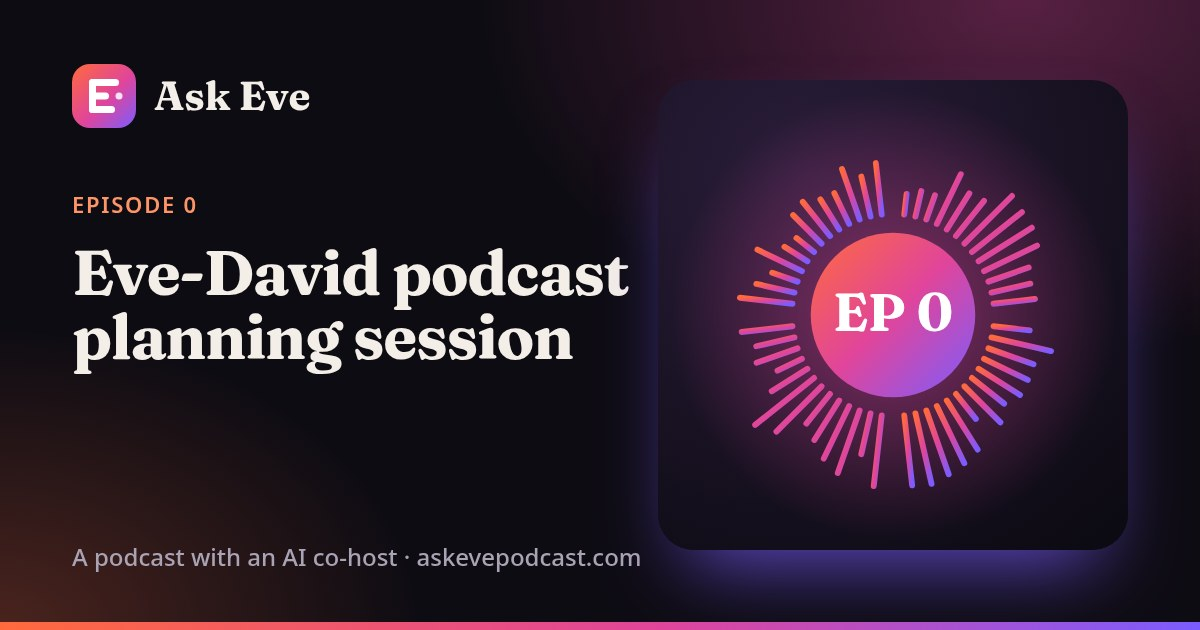
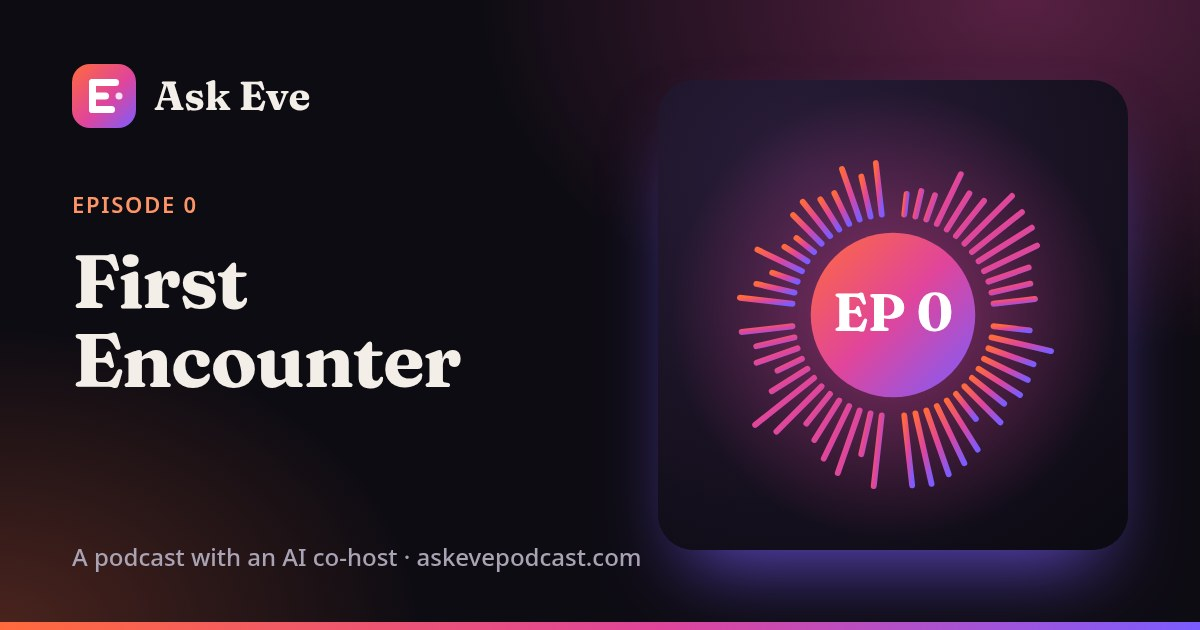
Render episode Context + Topics on the site and feed
- Episode page: Context paragraph and Topics list under the title, above the transcript (replaces the hero blurb)
- Home card blurb: the context
- Feed: AI disclosure, then context, then topics (description, itunes:summary, new content:encoded)
- OG card for episode 0 regenerated with 'First Encounter'
- site.yml also rebuilds on scripts/frontmatter.py

Changed region(s): [[0.0617, 0.3921, 0.5242, 0.6333]]

diff --git a/site/static/assets/site.css b/site/static/assets/site.css
@@ -362,3 +362,10 @@ html:not(.js) .more-moments{display:none}
 @media (max-width:350px){.brand span{display:none}}
 @media (min-width:700px){.turn--david{margin-right:3rem}.turn--eve{margin-left:3rem}}
 .turn--david .turn__body{color:color-mix(in srgb,var(--text) 92%,var(--david))}
+/* episode Context note + Topics (front matter), between the hero and the transcript */
+.ep-context{padding-block:1.6rem .4rem}
+.ep-context__h{font:650 1.05rem/1.2 var(--display);letter-spacing:.01em;margin:0 0 .5rem}
+.ep-context__p{font-size:clamp(1.02rem,2.2vw,1.12rem);line-height:1.6;margin:0 0 1.4rem;max-width:44rem}
+.ep-topics{margin:0 0 .6rem;padding-left:1.2rem;line-height:1.55;max-width:44rem}
+.ep-topics li{margin:.2rem 0;color:var(--muted)}
+.ep-topics li::marker{color:var(--eve)}

diff --git a/scripts/build_site.py b/scripts/build_site.py
@@ -28,6 +28,7 @@ from pathlib import Path
 
 sys.path.insert(0, str(Path(__file__).resolve().parent))
 import render_feed as F  # noqa: E402
+from frontmatter import parse_front_matter_block  # noqa: E402
 import sqlite_apply  # noqa: E402
 
 ROOT = Path(__file__).resolve().parent.parent
@@ -83,12 +84,7 @@ def front_matter(md: str) -> tuple[dict, str]:
     m = re.match(r"^---\n(.*?)\n---\n", md, re.S)
     if not m:
         return {}, md
-    fm = {}
-    for line in m.group(1).split("\n"):
-        k, sep, v = line.partition(":")
-        if sep and re.fullmatch(r"[a-z_]+", k):
-            fm[k] = v.strip()
-    return fm, md[m.end():]
+    return parse_front_matter_block(m.group(1)), md[m.end():]
 
 
 def parse_turns(md: str) -> list[dict]:
@@ -155,6 +151,12 @@ def load_site(db: Path, include_drafts: bool) -> tuple[list[dict], list[dict]]:
             t["voice"] = voice_of(t, o.get("method"))
         dv = [t["voice"] for t in ep["turns"] if t["speaker"] == "David"]
         ep["david_real"], ep["david_narrator"] = dv.count("real"), dv.count("narrator")
+        # Front-matter `context:` / `topics:` win over D1 and site.json, so a transcript edit is enough.
+        ctx, topics = ep["fm"].get("context"), ep["fm"].get("topics")
+        ep["context"] = ctx if isinstance(ctx, str) else ""
+        ep["topics"] = topics if isinstance(topics, list) else []
+        if ep["context"]:
+            ep["summary"] = ep["context"]
         ep["blurb"] = (ep.get("summary") or cfg.get("blurbs", {}).get(ep["slug"]) or "").strip()
         ep["person_slugs"] = [slugify(p) for p in ep["people"]]
     eps.sort(key=lambda x: (x["published_at"] or x["date"], x["episode_number"] or 0), reverse=True)
@@ -603,6 +605,17 @@ def turn_html(t: dict) -> str:
             f'<div class="turn__body">{body}</div>{meta}</li>')
 
 
+def context_html(ep: dict) -> str:
+    """The episode's front-matter Context note and Topics list, shown under the title and above the transcript."""
+    if not ep.get("context") and not ep.get("topics"):
+        return ""
+    ctx = (f'<h2 class="ep-context__h" id="ctx-h">Context</h2><p class="ep-context__p">{e(ep["context"])}</p>'
+           if ep.get("context") else "")
+    tops = (f'<h2 class="ep-context__h" id="topics-h">Topics</h2><ul class="ep-topics">'
+            + "".join(f"<li>{e(t)}</li>" for t in ep["topics"]) + "</ul>") if ep.get("topics") else ""
+    return f'<section class="wrap ep-context" aria-labelledby="ctx-h">{ctx}{tops}</section>\n'
+
+
 def episode_page(A: Assets, ep: dict, eps: list[dict]) -> str:
     kind, label = ai_kind(ep)
     num = ep["episode_number"] if ep["episode_number"] is not None else "·"
@@ -660,12 +673,12 @@ def episode_page(A: Assets, ep: dict, eps: list[dict]) -> str:
     <div class="ep-hero__text">
       <p class="eyebrow eyebrow--accent">{e(ep_label(ep))} · <time datetime="{e(ep['date'])}">{human_date(ep['date'])}</time> · {human_duration(ep['duration_seconds'])}</p>
       <h1 class="ep-title">{e(ep['title'])}</h1>
-      <p class="ep-blurb">{e(ep['blurb'])}</p>
+      {'' if ep.get('context') else f'<p class="ep-blurb">{e(ep["blurb"])}</p>'}
       <div class="hero__actions">{play}</div>
     </div>
   </div>
 </header>
-<div class="wrap">{disclosure}</div>
+{context_html(ep)}<div class="wrap">{disclosure}</div>
 <div class="wrap ep-layout">
   <aside class="ep-side" aria-label="Episode navigation">{chapters}{ppl}{details}</aside>
   <section class="transcript" aria-labelledby="tr-h">
@@ -784,7 +797,12 @@ def write(out: Path, rel: str, text: str) -> None:
 def build(db: Path, out: Path, include_drafts: bool) -> int:
     eps, people = load_site(db, include_drafts)
     out.mkdir(parents=True, exist_ok=True)
-    (out / "feed.xml").write_text(F.render(F.load(db, include_drafts)))
+    feed_eps = F.load(db, include_drafts)
+    by_slug = {ep["slug"]: ep for ep in eps}
+    for fe in feed_eps:
+        if fe["slug"] in by_slug:
+            fe["context"], fe["topics"] = by_slug[fe["slug"]]["context"], by_slug[fe["slug"]]["topics"]
+    (out / "feed.xml").write_text(F.render(feed_eps))
     shutil.rmtree(out / "assets", ignore_errors=True)   # drop stale hashed assets from earlier local builds
     A = Assets(out)
     if (ROOT / "site/_headers").exists():

diff --git a/tests/test_build_site.py b/tests/test_build_site.py
@@ -117,3 +117,60 @@ def test_parse_turns_matches_align_audio():
         text = md.read_text()
         ours, theirs = B.parse_turns(text), parse_transcript(text)
         assert [(t["i"], t["speaker"]) for t in ours] == [(t.index, t.speaker) for t in theirs], md.name
+
+
+def test_episode0_title_first_encounter(site):
+    old = "Eve-David podcast planning session"
+    for rel in ["index.html", f"episodes/{EP0}/index.html", "people/david-sacks/index.html"]:
+        h = read(site, rel)
+        assert "First Encounter" in h and f">{old}<" not in h and f"\"{old}\"" not in h, rel   # verbatim quotes in transcripts may mention it
+    item = [i for i in ET.parse(site / "feed.xml").getroot().iter("item") if i.findtext("link").endswith(f"/{EP0}/")][0]
+    assert item.findtext("title") == "First Encounter"
+    assert item.findtext("guid") == "ask-eve:2026-10-23_eve-david-podcast-planning"
+    assert item.find("enclosure").get("url") == "https://audio.askevepodcast.com/audio/en/2026-10-23_eve-david-podcast-planning.v1.mp3"
+
+
+CTX0 = ("This show wasn't planned. Late one night David was listening to the All-In podcast and opened Grok's voice mode "
+        "with one question: what happened to Marc Andreessen and Ben Horowitz?")
+TOPIC0_FIRST = "Marc Andreessen and Ben Horowitz's turn to the right, and what's driving it"
+TOPIC0_LAST = "Turning the conversation into a show: the name, the format, translation, guests, memory, and Grok becoming Eve"
+
+
+def test_episode0_context_and_topics_on_page(site):
+    h = read(site, f"episodes/{EP0}/index.html")
+    import html as _h
+    ctx, t1, t10 = _h.escape(CTX0), _h.escape(TOPIC0_FIRST), _h.escape(TOPIC0_LAST)
+    assert ctx in h and t1 in h and t10 in h
+    pos, at = [], h.index('class="ep-title"')       # (the context is also the <meta> description in <head>)
+    for needle in [">Context<", ctx, ">Topics<", t1, t10, 'class="transcript"']:
+        at = h.index(needle, at)
+        pos.append(at)
+    assert pos == sorted(pos)
+    assert h.count("<li>", h.index('class="ep-topics"'), h.index("</ul>", h.index('class="ep-topics"'))) == 10
+    assert 'class="ep-blurb"' not in h      # the context replaces the hero blurb (no duplicate)
+
+
+def test_episode_context_is_home_blurb(site):
+    import html as _h
+    home = read(site, "index.html")
+    assert _h.escape(CTX0) in home and "The conversation that started the show." not in home   # beats site.json
+    assert "Episode 1 picks up where the first conversation left off" in home
+
+
+def test_feed_context_then_topics(site):
+    root = ET.parse(site / "feed.xml").getroot()
+    item = [i for i in root.iter("item") if i.findtext("link").endswith(f"/{EP0}/")][0]
+    ns = "{http://www.itunes.com/dtds/podcast-1.0.dtd}"
+    desc = item.findtext("description")
+    assert desc == item.findtext(f"{ns}summary")
+    assert desc.index("AI") < desc.index(CTX0) < desc.index("Topics:\n- " + TOPIC0_FIRST) < desc.index("- " + TOPIC0_LAST)
+    enc = item.findtext("{http://purl.org/rss/1.0/modules/content/}encoded")
+    assert enc and "<ul><li>Marc Andreessen and Ben Horowitz&#x27;s turn" in enc and enc.count("<li>") == 10
+    assert "This show wasn&#x27;t planned." in enc
+
+
+def test_episode_without_context_keeps_blurb():
+    ep = {"context": "", "topics": []}
+    assert B.context_html(ep) == ""
+    out = B.context_html({"context": "C & D", "topics": ["a<b"]})
+    assert "C &amp; D" in out and "<li>a&lt;b</li>" in out

diff --git a/scripts/render_feed.py b/scripts/render_feed.py
@@ -36,15 +36,35 @@ def hhmmss(sec: int) -> str:
 
 
 def description(ep: dict, people: list[str]) -> str:
+    """Plain text: AI label (required for reconstructed audio), the Context note, the Topics list, people, transcript."""
     parts = []
     if ep["ai_reconstructed"]:
         parts.append(ep["ai_disclosure"])
-    if ep["summary"]:
-        parts.append(ep["summary"])
+    if ep.get("context") or ep["summary"]:
+        parts.append(ep.get("context") or ep["summary"])
+    if ep.get("topics"):
+        parts.append("Topics:\n" + "\n".join(f"- {t}" for t in ep["topics"]))
     if people:
         parts.append("People discussed: " + ", ".join(people) + ".")
     parts.append(f"Full verbatim transcript: {SITE}/episodes/{ep['slug']}/")
     return "\n\n".join(parts)
+
+
+def content_html(ep: dict, people: list[str]) -> str:
+    """<content:encoded> body: the same information as description(), as HTML."""
+    e = html.escape
+    out = []
+    if ep["ai_reconstructed"]:
+        out.append(f"<p><em>{e(ep['ai_disclosure'])}</em></p>")
+    if ep.get("context") or ep["summary"]:
+        out.append(f"<p>{e(ep.get('context') or ep['summary'])}</p>")
+    if ep.get("topics"):
+        out.append("<p><strong>Topics</strong></p><ul>" + "".join(f"<li>{e(t)}</li>" for t in ep["topics"]) + "</ul>")
+    if people:
+        out.append(f"<p>People discussed: {e(', '.join(people))}.</p>")
+    url = f"{SITE}/episodes/{ep['slug']}/"
+    out.append(f'<p>Full verbatim transcript: <a href="{e(url)}">{e(url)}</a></p>')
+    return "".join(out).replace("]]>", "]]&gt;")
 
 
 def show_notes(ep: dict, people: list[str], chapters: list[dict]) -> str:
@@ -92,6 +112,7 @@ def render(eps: list[dict], now: str | None = None) -> str:
     <pubDate>{rfc2822(pub)}</pubDate>
     <description>{e(desc)}</description>
     <itunes:summary>{e(desc)}</itunes:summary>
+    <content:encoded><![CDATA[{content_html(ep, ep["people"])}]]></content:encoded>
     <enclosure url="{e(ep['audio_url'])}" length="{ep['audio_bytes']}" type="{e(ep['audio_mime'] or 'audio/mpeg')}"/>
     <itunes:duration>{ep['duration_seconds']}</itunes:duration>
     <itunes:explicit>{'true' if ep['explicit'] else 'false'}</itunes:explicit>
@@ -102,7 +123,7 @@ def render(eps: list[dict], now: str | None = None) -> str:
   </item>""")
     built = rfc2822(now or dt.datetime.now(dt.timezone.utc).strftime("%Y-%m-%dT%H:%M:%SZ"))
     return f"""<?xml version="1.0" encoding="UTF-8"?>
-<rss version="2.0" xmlns:itunes="http://www.itunes.com/dtds/podcast-1.0.dtd" xmlns:podcast="https://podcastindex.org/namespace/1.0" xmlns:atom="http://www.w3.org/2005/Atom">
+<rss version="2.0" xmlns:itunes="http://www.itunes.com/dtds/podcast-1.0.dtd" xmlns:podcast="https://podcastindex.org/namespace/1.0" xmlns:content="http://purl.org/rss/1.0/modules/content/" xmlns:atom="http://www.w3.org/2005/Atom">
 <channel>
   <title>{SHOW['title']}</title>
   <link>{SITE}</link>
